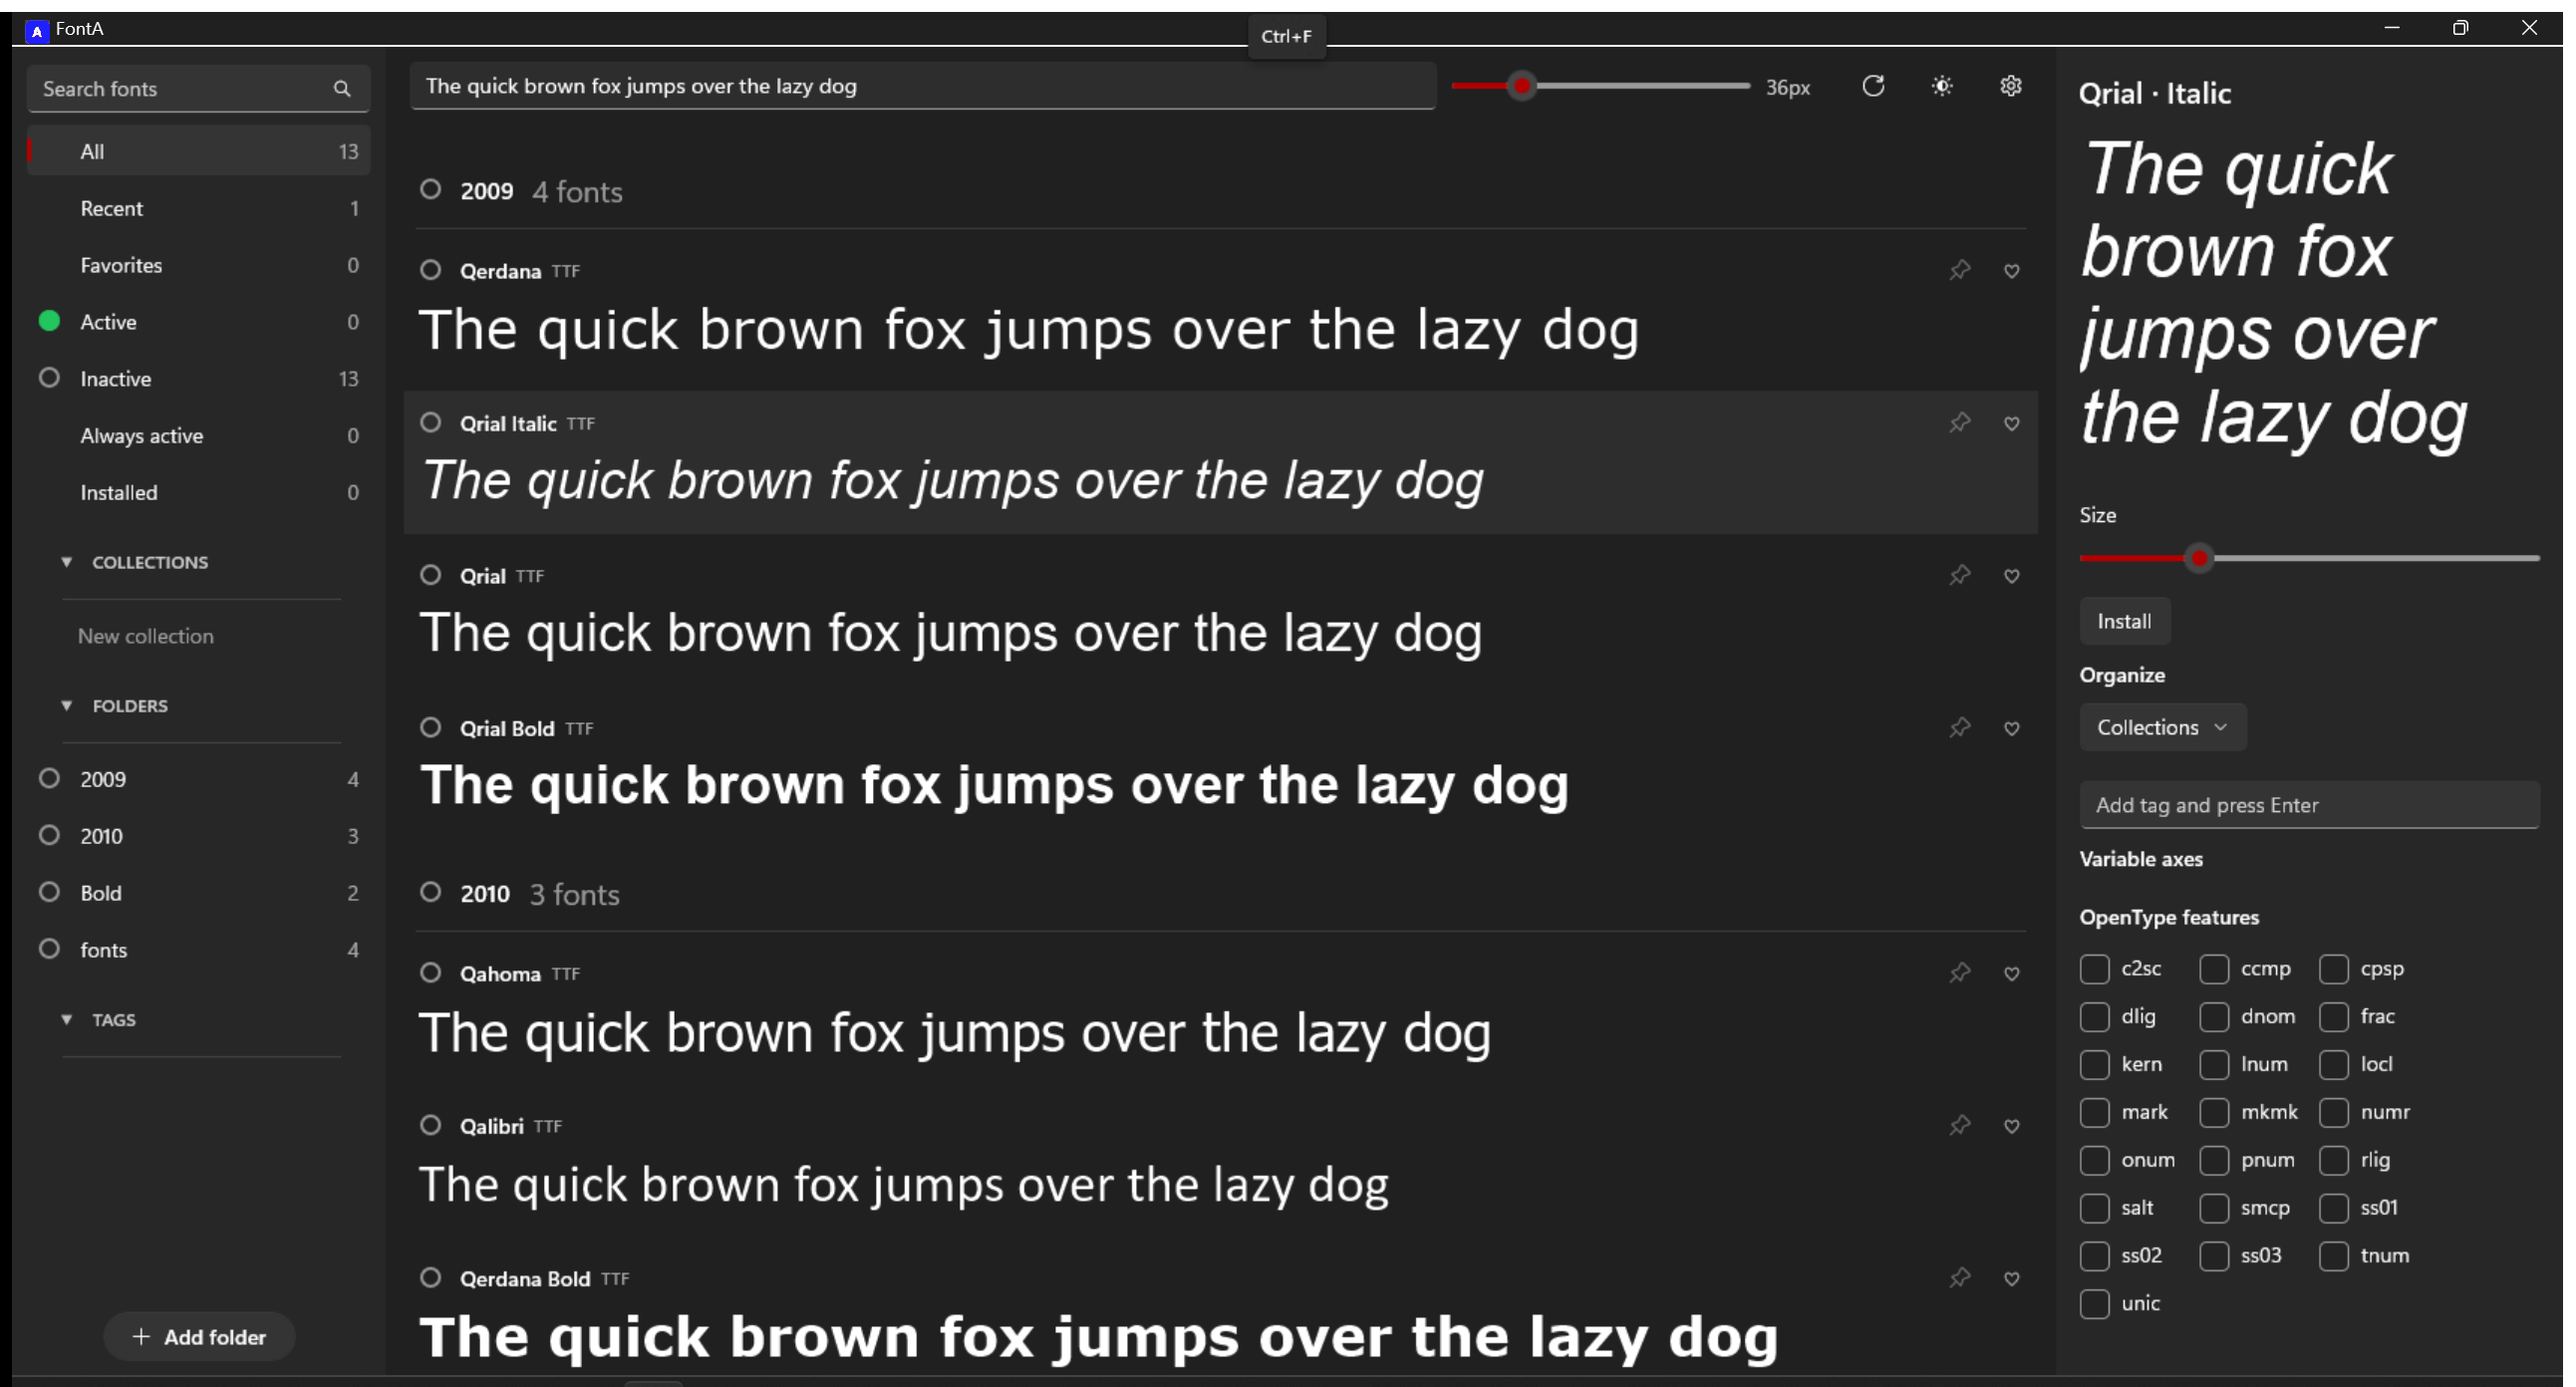
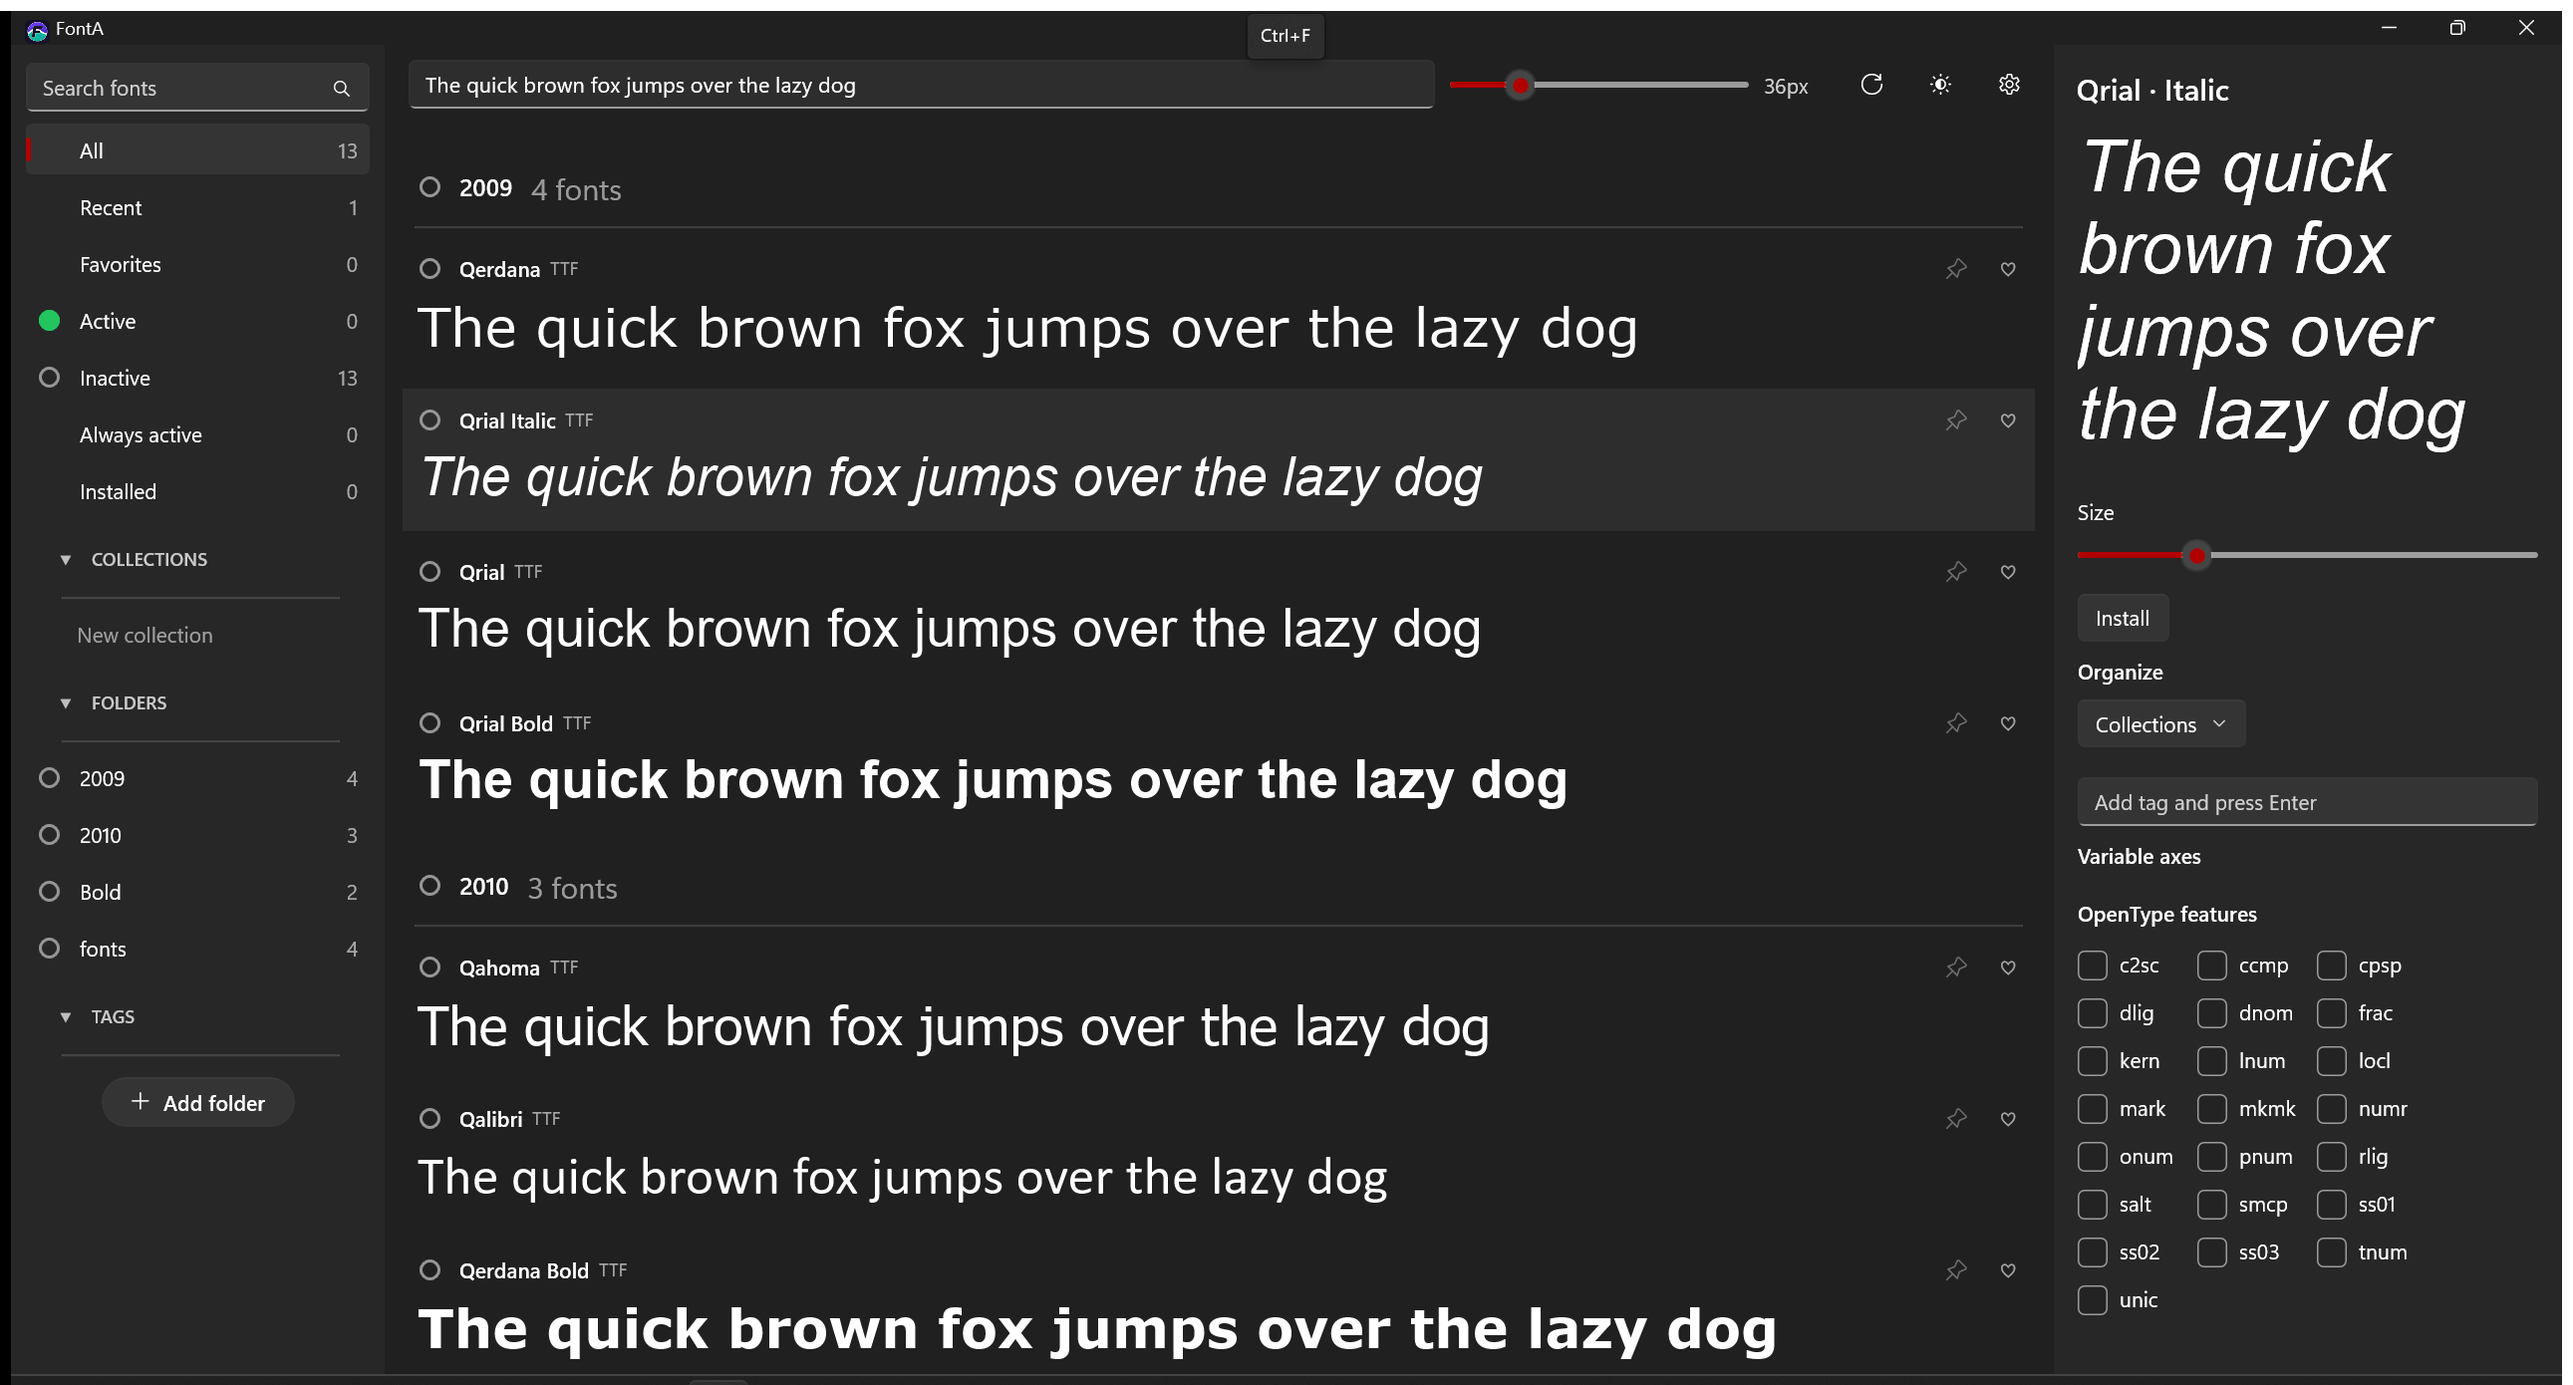
Sharp rendering on scaled displays, and a mouse wheel that follows the pointer
FontA now declares per-monitor DPI awareness. Without it Windows stretched the whole window as a picture on
displays scaled above 100%, which made everything soft. The mouse wheel is handled by region: over the left area
it scrolls the sidebar, over the main area it scrolls the font list, on every turn. Edge scrolling pauses while
the wheel is in use.

diff --git a/src/FontA.App/MainWindow.xaml b/src/FontA.App/MainWindow.xaml
@@ -26,7 +26,7 @@
       </StackPanel>
     </ScrollViewer>
     <!-- font list -->
-    <Grid Grid.Column="1">
+    <Grid x:Name="MainColumn" Grid.Column="1">
       <Grid.RowDefinitions>
         <RowDefinition Height="Auto"/><RowDefinition Height="Auto"/><RowDefinition Height="Auto"/><RowDefinition Height="*"/>
       </Grid.RowDefinitions>

diff --git a/src/FontA.App/MainWindow.Library.cs b/src/FontA.App/MainWindow.Library.cs
@@ -450,6 +450,67 @@ public sealed partial class MainWindow
         }
     }
 
+    private WheelHook? _wheelHook;
+
+    /// <summary>
+    /// The mouse wheel scrolls the sidebar (the left area) or the font list (the main area, toolbar and gaps included)
+    /// according to where the pointer is, every turn, whatever was under the pointer before. The details pane scrolls
+    /// itself, and an open dialog or menu keeps the wheel.
+    /// </summary>
+    private void SetUpWheel()
+    {
+        _wheelHook = new WheelHook(WinRT.Interop.WindowNative.GetWindowHandle(this), (sx, sy, delta) =>
+        {
+            var root = (FrameworkElement)Content;
+            if (root.XamlRoot is not { } xamlRoot || !IsWindowActive()) return false;
+            // A dialog, flyout or suggestion list keeps the wheel for itself. Tooltips don't count (one appears whenever the
+            // pointer rests over a button or the search box, and must not stop the wheel working there).
+            if (VisualTreeHelper.GetOpenPopups(this).Any(p => p.Child is not ToolTip)) return false;
+
+            var pt = new WheelPoint { X = sx, Y = sy };
+            if (!ScreenToClient(WinRT.Interop.WindowNative.GetWindowHandle(this), ref pt)) return false;
+            double scale = xamlRoot.RasterizationScale;
+            double x = pt.X / scale, y = pt.Y / scale;
+            if (x < 0 || y < 0 || y >= root.ActualHeight) return false;
+
+            double side = SidebarScroll.ActualWidth;
+            ScrollViewer? target = null;
+            double notch;
+            if (x < side) { target = SidebarScroll; notch = 76; }
+            else if (x < side + MainColumn.ActualWidth) { target = Scroller(FontGrid); notch = 110; }
+            else return false;
+            if (target == null) return false;
+
+            ScrollBy(target, -delta / 120.0 * notch);
+            return true;
+        });
+    }
+
+    private readonly Dictionary<ScrollViewer, double> _wheelGoal = new();
+    private long _lastWheelTick;
+
+    /// <summary>
+    /// Scrolls by an amount, remembering where the scrolling is heading so quick turns of the wheel add up instead of
+    /// each starting from wherever the list happens to be mid-move. The move itself is made on the next turn of the
+    /// message loop, not inside the mouse hook.
+    /// </summary>
+    private void ScrollBy(ScrollViewer sv, double pixels)
+    {
+        long now = Environment.TickCount64;
+        if (now - _lastWheelTick > 250 || !_wheelGoal.ContainsKey(sv)) _wheelGoal[sv] = sv.VerticalOffset;
+        _lastWheelTick = now;
+        double goal = Math.Clamp(_wheelGoal[sv] + pixels, 0, sv.ScrollableHeight);
+        _wheelGoal[sv] = goal;
+        DispatcherQueue.TryEnqueue(DispatcherQueuePriority.High, () => sv.ChangeView(null, goal, null, disableAnimation: true));
+    }
+
+    private bool IsWindowActive() => GetForegroundWindow() == WinRT.Interop.WindowNative.GetWindowHandle(this);
+
+    [System.Runtime.InteropServices.StructLayout(System.Runtime.InteropServices.LayoutKind.Sequential)]
+    private struct WheelPoint { public int X, Y; }
+    [System.Runtime.InteropServices.DllImport("user32.dll")] private static extern bool ScreenToClient(IntPtr hwnd, ref WheelPoint p);
+    [System.Runtime.InteropServices.DllImport("user32.dll")] private static extern IntPtr GetForegroundWindow();
+
     private DispatcherTimer EnsureHoverTimer()
     {
         if (_hoverTimer != null) return _hoverTimer;
@@ -461,6 +522,7 @@ public sealed partial class MainWindow
             if (y < EdgeZone) step = -MaxEdgeSpeed * (1 - Math.Max(y, 0) / EdgeZone);
             else if (y > height - EdgeZone) step = MaxEdgeSpeed * (1 - Math.Max(height - y, 0) / EdgeZone);
             if (step == 0) return;
+            if (Environment.TickCount64 - _lastWheelTick < 700) return;   // the wheel is in use: edge scrolling would pull the list back
             var sv = Scroller(list);
             if (sv != null) sv.ChangeView(null, Math.Clamp(sv.VerticalOffset + step, 0, sv.ScrollableHeight), null, disableAnimation: true);
         };

diff --git a/src/FontA.App/WheelHook.cs b/src/FontA.App/WheelHook.cs
@@ -1,0 +1,79 @@
+using System.Runtime.InteropServices;
+
+namespace FontA.App;
+
+/// <summary>
+/// Sees each mouse-wheel turn before Windows delivers it, so FontA can decide which list scrolls from where the pointer
+/// is, rather than from internal XAML rules about which scroll area the pointer last entered (which sent the wheel to
+/// the wrong list). Only turns made while the pointer is over this app's window are looked at; everything else, in this
+/// app and in every other, is passed straight on. Nothing is recorded or kept.
+/// </summary>
+internal sealed class WheelHook : IDisposable
+{
+    private const int WH_MOUSE_LL = 14;
+    private const uint WM_MOUSEWHEEL = 0x020A;
+    private const uint GA_ROOT = 2;
+
+    private readonly IntPtr _window;
+    private readonly Func<int, int, int, bool> _onWheel;
+    private readonly HookProc _proc;                       // kept in a field so the GC can't free the native callback
+    private IntPtr _hook;
+
+    /// <param name="window">The app's top-level window.</param>
+    /// <param name="onWheel">Screen x and y in pixels, and the wheel delta (120 per notch, positive = scroll up). Return true when handled.</param>
+    public WheelHook(IntPtr window, Func<int, int, int, bool> onWheel)
+    {
+        _window = window;
+        _onWheel = onWheel;
+        _proc = Callback;
+        _hook = SetWindowsHookEx(WH_MOUSE_LL, _proc, GetModuleHandle(null), 0);
+    }
+
+    private IntPtr Callback(int code, IntPtr wParam, IntPtr lParam)
+    {
+        if (code >= 0 && (uint)(long)wParam == WM_MOUSEWHEEL)
+        {
+            try
+            {
+                var info = Marshal.PtrToStructure<MouseHookInfo>(lParam);
+                int delta = (short)((info.MouseData >> 16) & 0xFFFF);
+                var hit = WindowFromPoint(info.X, info.Y);
+                if (hit != IntPtr.Zero && GetAncestor(hit, GA_ROOT) == _window && _onWheel(info.X, info.Y, delta))
+                    return (IntPtr)1;                      // handled: Windows does not deliver this turn any further
+            }
+            catch (Exception)
+            {
+                // A scrolling problem must never break the mouse for the whole system: let the turn through.
+            }
+        }
+        return CallNextHookEx(IntPtr.Zero, code, wParam, lParam);
+    }
+
+    public void Dispose()
+    {
+        if (_hook == IntPtr.Zero) return;
+        UnhookWindowsHookEx(_hook);
+        _hook = IntPtr.Zero;
+    }
+
+    [StructLayout(LayoutKind.Sequential)]
+    private struct MouseHookInfo
+    {
+        public int X, Y;
+        public uint MouseData, Flags, Time;
+        public UIntPtr ExtraInfo;
+    }
+
+    private delegate IntPtr HookProc(int code, IntPtr wParam, IntPtr lParam);
+
+    [DllImport("user32.dll", SetLastError = true)] private static extern IntPtr SetWindowsHookEx(int id, HookProc proc, IntPtr module, uint thread);
+    [DllImport("user32.dll")] private static extern bool UnhookWindowsHookEx(IntPtr hook);
+    [DllImport("user32.dll")] private static extern IntPtr CallNextHookEx(IntPtr hook, int code, IntPtr wParam, IntPtr lParam);
+    [DllImport("user32.dll")] private static extern IntPtr WindowFromPoint(POINT p);
+    [DllImport("user32.dll")] private static extern IntPtr GetAncestor(IntPtr hwnd, uint flags);
+    [DllImport("kernel32.dll", CharSet = CharSet.Unicode)] private static extern IntPtr GetModuleHandle(string? name);
+
+    [StructLayout(LayoutKind.Sequential)]
+    private struct POINT { public int X, Y; }
+    private static IntPtr WindowFromPoint(int x, int y) => WindowFromPoint(new POINT { X = x, Y = y });
+}

diff --git a/src/FontA.App/MainWindow.xaml.cs b/src/FontA.App/MainWindow.xaml.cs
@@ -67,6 +67,7 @@ public sealed partial class MainWindow : Window
 
         Closed += (_, _) =>
         {
+            _wheelHook?.Dispose();
             CancelQuietly(_scanCts); CancelQuietly(_pruneCts);
             _settingsWindow?.Close();
             _watcher.Dispose(); _tray.Dispose();
@@ -101,6 +102,7 @@ public sealed partial class MainWindow : Window
         _ = PruneMissingInBackground();
         RegisterShortcuts();
         SetUpHoverScroll();
+        SetUpWheel();
         ((FrameworkElement)Content).Loaded += (_, _) =>
         {
             UpdateScale();
